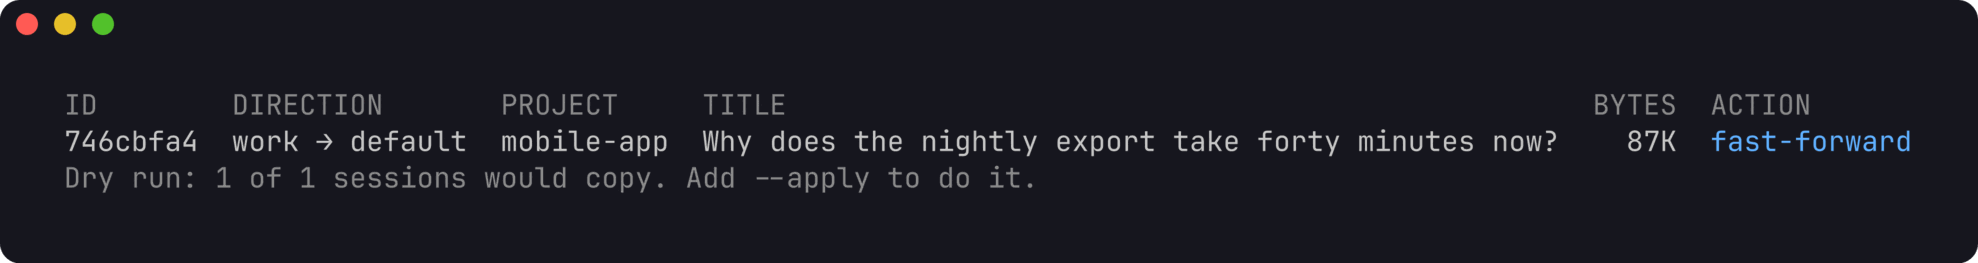
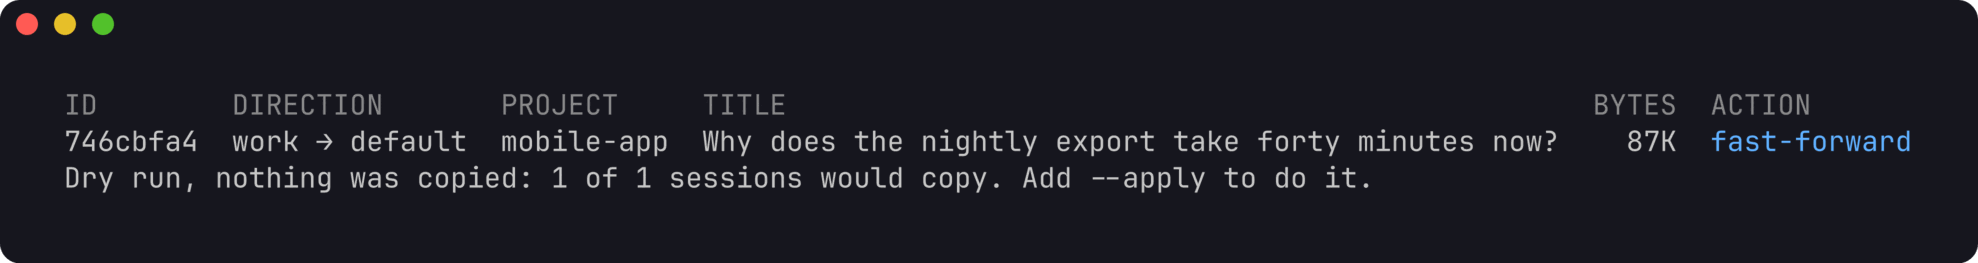
fix: say plainly that a copy, move or fork plan changed nothing
The plan prints a table whose ACTION column reads "create" or
"fast-forward", which looks like a result. The only hint that nothing
happened was a dimmed last line, and it was easy to miss: a copy ran
without --apply, and resuming the session in the target account then
failed with "No conversation found". The last line is no longer dimmed
and starts by saying nothing was copied, moved or forked.

Changed region(s): [[0.0308, 0.6388, 0.7093, 0.73]]

diff --git a/internal/render/transfer.go b/internal/render/transfer.go
@@ -40,7 +40,7 @@ func (t Term) Diff(a, b string, rows []DiffRow, total int) {
 		}
 		id := query.ShortID(r.SessionID)
 		if r.Live {
-			id = t.paint(cLive, id+"●")
+			id = t.paint(cLive, id+" ●")
 		}
 		title := r.Title
 		if title == "" {
@@ -121,7 +121,9 @@ func (t Term) Plan(verb string, ops []transfer.Op, info map[string]query.Session
 	if verb == "move" {
 		extra = " Move puts each source in " + ShortHome(archive) + " instead of deleting it."
 	}
-	t.println(t.dim(fmt.Sprintf("Dry run: %d of %d sessions would %s. Add --apply to do it.%s", ready, len(ops), verb, extra)))
+	// Not dimmed: the table reads like a result, so say plainly that it is not.
+	past := map[string]string{"copy": "copied", "move": "moved"}[verb]
+	t.println(fmt.Sprintf("Dry run, nothing was %s: %d of %d sessions would %s. Add --apply to do it.", past, ready, len(ops), verb) + t.dim(extra))
 }
 
 // Results prints what copy or move did.
@@ -177,7 +179,7 @@ func (t Term) ForkPlan(p transfer.ForkPlan, s query.SessionRow) {
 	}
 	t.println(t.dim("  writes " + writes + "; the original is not touched"))
 	t.println(t.dim("  usage already in the transcript stays with " + p.From + "; only new work counts toward " + p.To))
-	t.println(t.dim("Dry run. Add --apply to do it (a new id is drawn each time)."))
+	t.println("Dry run, nothing was forked. Add --apply to do it" + t.dim(" (a new id is drawn each time)."))
 }
 
 // Forked prints what fork did and how to go on.

diff --git a/docs/tutorial.md b/docs/tutorial.md
@@ -447,7 +447,7 @@ Fix flaky cart total test around daylight saving
 fork d244741f from work into default as a new session 77ad76f7
   writes a 74K transcript; the original is not touched
   usage already in the transcript stays with work; only new work counts toward default
-Dry run. Add --apply to do it (a new id is drawn each time).
+Dry run, nothing was forked. Add --apply to do it (a new id is drawn each time).
 ```
 
 ### Copy and move many sessions
